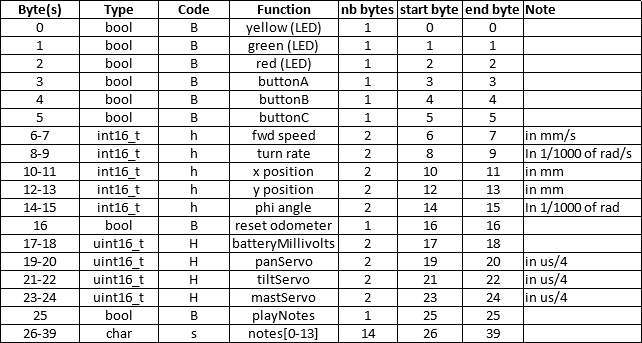
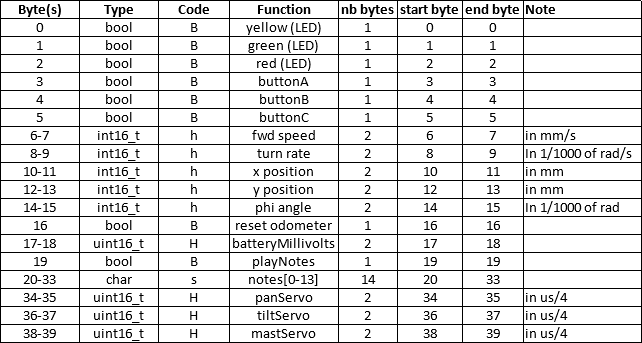
Moved servo variables at end of buffer + moved odometer update in main loop

diff --git a/pi/astar.py b/pi/astar.py
@@ -132,11 +132,11 @@ class AStar:
                 self._write_pack(0, 'BBB', self.ledYellow, self.ledGreen, \
                     self.ledRed)
                 # Servos
-                self._write_pack(19, 'HHH', self._panServo, self._tiltServo, \
+                self._write_pack(34, 'HHH', self._panServo, self._tiltServo, \
                     self._mastServo)
                 # Notes
                 if self._notes != "":
-                    self._write_pack(25, 'B15s', 1, self._notes.encode('ascii'))
+                    self._write_pack(19, 'B15s', 1, self._notes.encode('ascii'))
                     self._notes = ""
                 # Motors (turn rate in 1/1000 of radians / s)
                 turnRate = int(self._turnRate * 1000)
